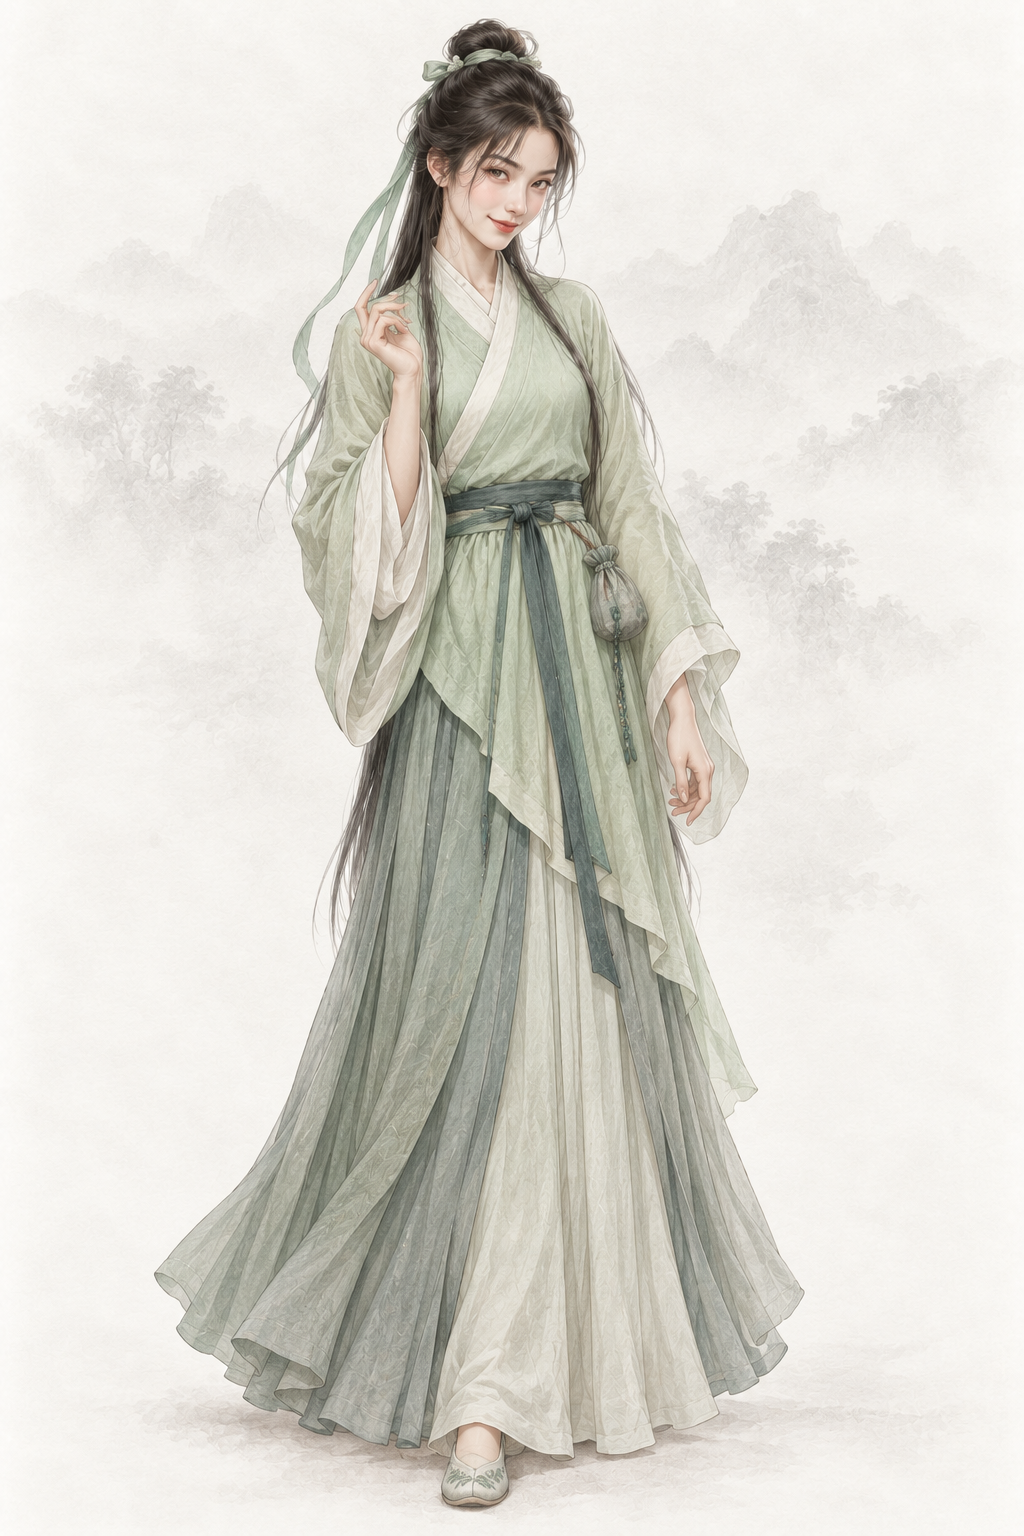
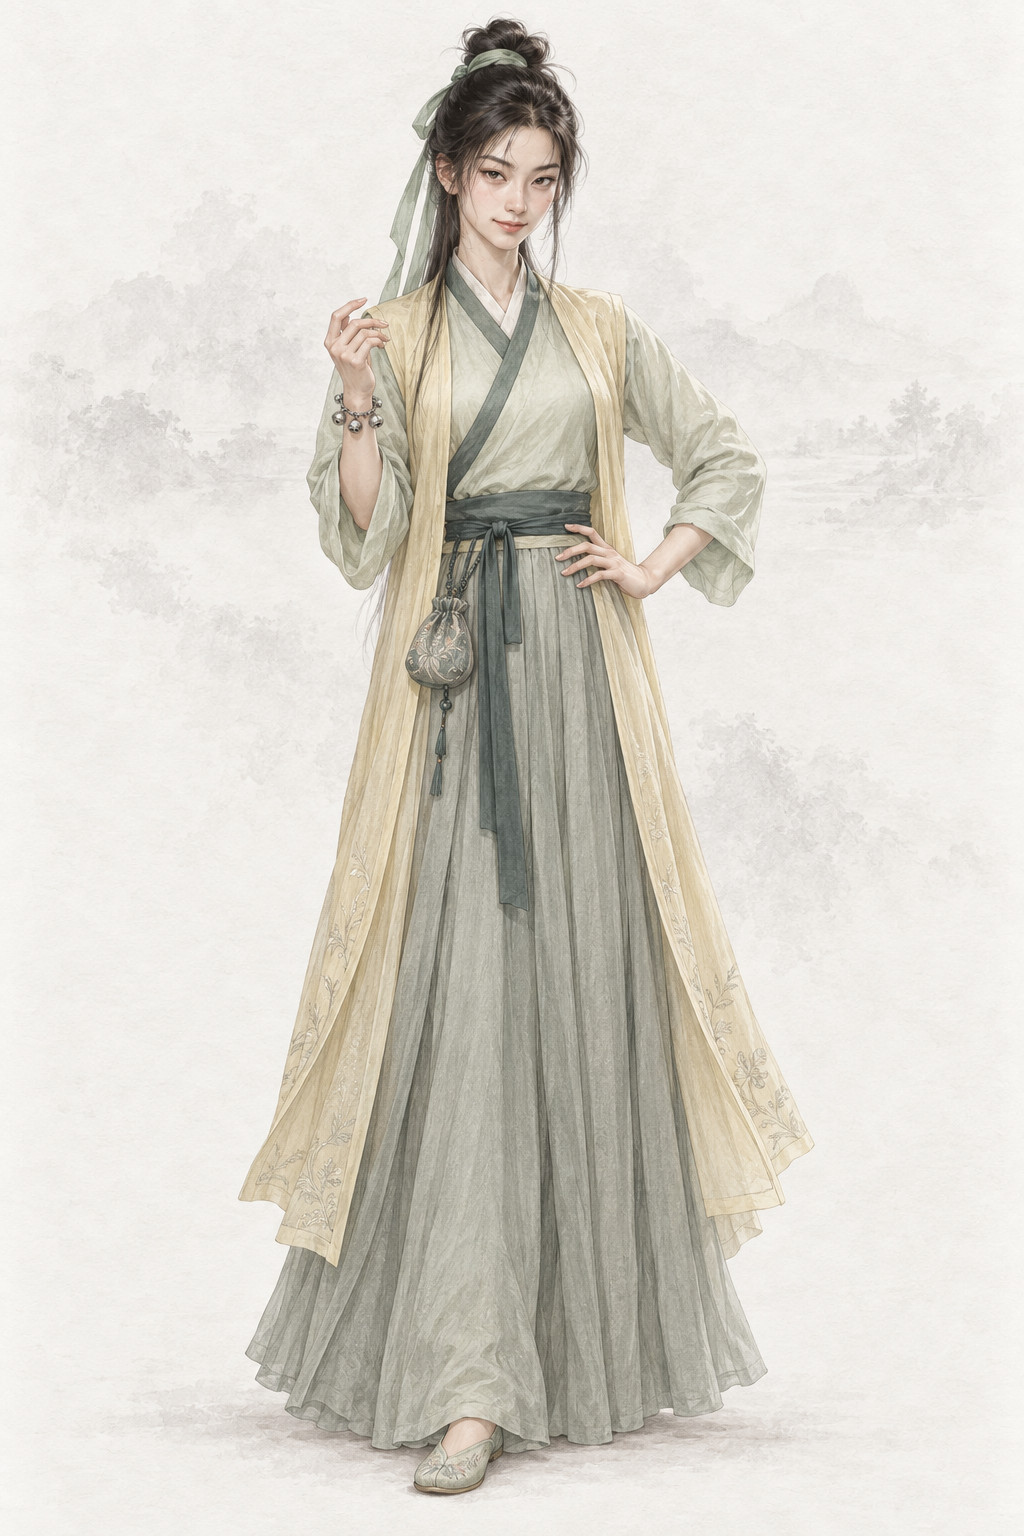
assets(character): por_npc_dingdang__ch06_youth_changle_base 丁珰（codex · AR-32 文字 + 基线）
本人无可用剧照或可靠游戏头像，只用文字与两张同性别基线重出；提示词写回、frontmatter 加 classic_ref。

Changed region(s): [[0.1562, 0.0, 0.8125, 1.0], [0.8438, 0.3125, 0.875, 0.3438], [0.7812, 0.375, 0.8125, 0.4062]]

diff --git a/assets/default/prompts/characters/ch06-xiake/npc_dingdang.md b/assets/default/prompts/characters/ch06-xiake/npc_dingdang.md
@@ -13,15 +13,38 @@ references:
   use: 唯一输入图仅作用户背景参考，已实际 view：只取暖浅灰不透明纸底、极淡青灰远山水墨与留白；完全忽略女性脸、年龄、体型、头发首饰、纱裙、飘带、倾头和手势，不取花枝亭台。它不是本角色本人图，不提供面部身份。
 status: redo
 redo_reason: "现图是磨皮大眼的网红甜笑脸，偏低龄，看不出“叮叮当当”的泼辣机变与醋意。"
-reference_upload:
-- assets/default/baseline/character/female/ref_npc_wangyuyan__ch01_base01.png
 realism_revision: user_identity_pose_20261001
 codex_prompt_rev: 2026-10-02
+reference_upload:
+- assets/default/baseline/character/female/ref_npc_wangyuyan__ch01_base01.png
+- assets/default/baseline/character/female/ref_npc_xiaolongnv__ch03_base01.png
+classic_ref: "无（作者 10-02 指定侠客行用《金庸群侠传》头像；游戏里没有可靠的丁珰头像，只用文字与基线）"
 ---
 
 # 丁珰 · 人物写实修正
 
 ## Gemini 提示词
+
+> 2026-10-02 AR-32 重出（8 号出图员，codex exec · image_gen）：本人没有可用的经典剧照或可靠游戏头像，只用文字与两张同性别画风基线（缩小版 JPEG，放在最后上传）；按原著与设定重写人物描写，去 AI 味、禁止幼态。上一版保留在下一节作历史。
+
+```text
+生成一张 2:3 竖幅全身人物立绘：单人、单一视角、完整全身——头顶、双手、双脚和手中器物的两端都在画面内，四周留出自然空白；人物站姿自然，身体基本朝向正面，头部端正（不歪头、不仰不俯），镜头平视。
+【参考图】随提示词上传的两张参考图都是本项目的立绘画风基线：画风、用色、光线、质感和暖浅灰纸底加淡水墨背景以它们为准；它们只管画风，不取长相、年龄、发型、服饰和姿势。人物的长相和造型完全按下面的文字来画。
+【画风】写实手绘古风人物插画，与本项目写实武侠角色立绘同一画风，像功力深厚的画师用细腻笔触画出的真实人物。手绘插画质感，不是 CG 渲染：不要过度光滑的皮肤、完美对称的五官、塑料高光、过度锐利的发丝；保留自然的笔触和细微不完美。皮肤有真实质感——细小毛孔、细纹、晒痕和自然的左右不对称，不磨皮、不油亮；头发是一缕缕自然的发丝和少量碎发；布料看得出经纬纹理、厚薄和自然垂坠的褶皱，带穿用过的轻微旧化，但完整不破烂；整体设色低饱和、沉稳；柔和的自然光从左上方照来，明暗过渡自然，不打舞台光、轮廓光或美颜柔光。不是照片，不是三维渲染，不是动漫或游戏 CG，也不是油画（没有厚涂笔触和画布纹理）。
+【背景】不透明的暖浅灰色纸底，只在远处有极淡的水墨远山和薄雾，大面积留白；人物与背景明暗分明、轮廓边缘干净完整（后续要自动抠图），水墨和纸纹只在背景里，不侵入人物和衣服；脚下只有很淡的一点接触阴影。
+【人物】丁珰（叮叮当当），《侠客行》中丁不三的孙女，在长乐帮把石破天错认成情郎石中玉的时期。
+【年龄与体态】约二十岁的成年年轻女子，身材苗条匀称、成人比例（约七头身），腰身灵巧，动作伶俐。
+【经典造型】俏丽泼辣、古灵精怪的「叮叮当当」：淡绿衫子外罩鹅黄比甲、头上一条长长的浅绿发带、腕上一串小银铃，嘴角挂着狡黠得意的笑；娇俏明艳，与阿绣的温婉一眼分开。
+【面容】长相要和温婉的阿绣完全不同，一眼能分清两人：瘦长的脸、颧骨偏高、下巴尖俏而有棱角；眉毛浓黑、斜斜上挑；一双细长上挑的单眼皮丹凤眼，眼神狡黠机敏，带几分骄横和醋意；鼻梁高挺、鼻尖微翘；嘴唇偏薄、红润，嘴角一边上扬，笑得又得意又调皮；肤色是健康的浅蜜色（比阿绣深），颧部有一点红晕；皮肤有真实质感与细微不对称。俏丽、精明、带刺的成年女子，不是甜美乖巧的圆眼美女。
+【发式】乌黑长发在头顶挽一个灵巧的高髻，系一条浅绿色长发带垂到肩后，鬓边留几缕顺垂的发丝。
+【服饰】明代女子装束：淡绿色交领窄袖短衫（右衽，左襟压右襟），领缘镶深绿边；外罩一件鹅黄色无袖长比甲；灰绿色长裙，深青窄腰带，素色平底绣鞋。
+【道具】腰侧系一只绣花小布囊；右手腕戴一串小银铃；右手抬到腰前、五指微张，像正要说俏皮话；左手叉在腰间。
+【姿态与神情】一脚稍前，身体正面朝前，神情得意、似笑非笑地看着前方。
+【不要】画面里不要任何文字、题款、印章、签名、水印、边框、分格或多视图；不要第二个人；不要幼态（童颜、娃娃脸、婴儿肥、儿童或少年身材、大头小身）；不要塑料感皮肤、磨皮美颜、网红脸（尖下巴大眼高鼻的模板脸）、过度对称、浓妆、偶像式打光、蜡像感；不要照片质感、三维渲染或动漫大眼；不要歪头、斜镜头；不要多指、缺指（设定的伤残除外）、手与器物粘连或悬空；衣襟必须右衽（穿着者的左襟压在右襟上），不要左衽（设定为少数民族服制的除外），不要水平镜像；不要现代物品、发光特效、法阵或能量光。不要大眼网红脸和苍白磨皮；不要少女幼态；不要温柔怯弱的神情；不要和阿绣同一张脸；不要清代旗装。
+【画风基线】随提示词上传的参考图里，最后两张是本项目的立绘画风基线：只参考它们的画风、用色、光线、质感和暖浅灰纸底加淡水墨的背景处理，整体画风必须与它们一致——精细写实的数字手绘插画，不是油画，不要厚涂笔触和画布纹理。基线图只取画风，不取长相：不要照搬基线图里人物的长相、年龄、发型、服饰和姿势。
+```
+
+## AR-31 文字版 Gemini 提示词（2026-10-02 凌晨；AR-32 重出之前，历史，不再用于出图）
 
 > 2026-10-02 Codex 人物线 2 号（AR-31）：在审核组稿上补一行「经典形象」（借鉴公认经典造型的发式、装束、配色、标志道具与气质，只写文字，不写演员名、不上传剧照），并补去 AI 化要求。本轮出图用下面第一个代码块；审核组原稿保留在其后的「审核组原稿」小节作历史。
 
